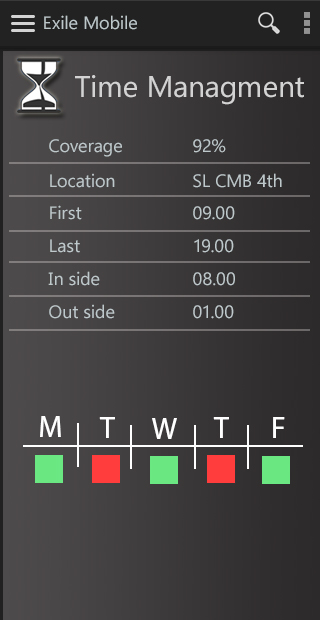
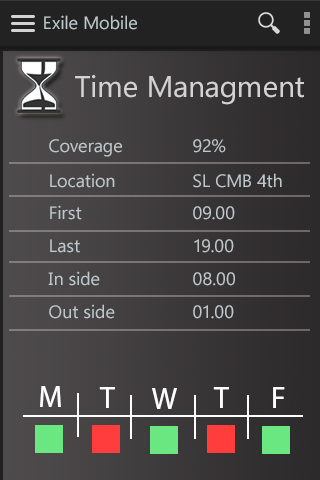
resize 1

Changed region(s): [[0.0, 0.0, 0.9688, 0.9688], [0.8125, 0.0, 0.875, 0.0938], [0.9375, 0.0, 0.9688, 0.0938]]

diff --git a/css/landingStyle.css b/css/landingStyle.css
@@ -18,14 +18,14 @@ a {
 }
 
 #HeaderLandscape { 
-	background: #292929; padding: 0; border-bottom: 0px solid #3c3c3c;
+	background: #292929; padding: 0; border-bottom: 0px solid #3c3c3c; width: 100%;
 }
 
 #HeaderLandscape img { 
 	display: block; margin: 0 auto 0;
 }
 #HeaderPortrait { 
-	background: #292929; padding: 0; border-bottom: 0px solid #3c3c3c;
+	background: #292929; padding: 0; border-bottom: 0px solid #3c3c3c; width: 100%;
 }
 
 #HeaderPortrait img { 
